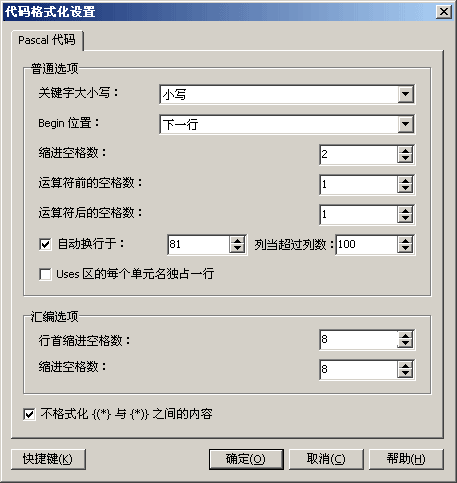
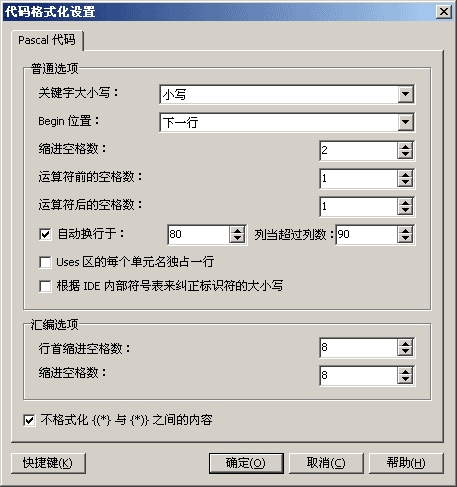
* [Help Files] Update Help Files for Code Formatter.

Changed region(s): [[0.0306, 0.1242, 0.9497, 0.9627], [0.0306, 0.0311, 0.2144, 0.0932]]

diff --git a/Help/CnWizards_ENU/wizards/codeformatter.htm b/Help/CnWizards_ENU/wizards/codeformatter.htm
@@ -36,7 +36,7 @@
 	<li>
 <p class="text"><b>Begin Style</b>: Specify where to Put "begin" when Meeting Structureed Statements like if...then or with...do. Defaultly Put to Next Line. Note: This Option does NOT Affect Procedure or Function Body.(Always use Next Line.)</p></li>
   <li>
-<p class="text"><b>̵Tab Indent</b>: Space Count for Tab Indent. Default is 2.</p></li>
+<p class="text"><b>Tab Indent</b>: Space Count for Tab Indent. Default is 2.</p></li>
 	<li>
 <p class="text"><b>Space Before Operator</b>: Space Count before an Operator. Default is 1.</p></li>
 	<li>
@@ -45,6 +45,8 @@
 <p class="text"><b>Auto Wrap</b>: There are 2 Line Width in Auto Wrap Setting: the Smaller One "Break Line Width" and the Bigger One "Exceeding Width". When a Line Exceeds the "Exceeding Width", it will be Broken to Next Line at "Breake Line Width". This Feature can avoid some Minor Contents at Next Line when the Original Line is a Little Longer than "Exceeding Width".</p></li>
 	<li>
 <p class="text"><b>Single Line Mode for Every Uses Unit</b>: If Checked, Every Unit Name in Uses Area will Occupy One Line, Otherwise Use a Simple auto Wrap Mode with the above Break Line Width.</p></li>
+  <li>
+<p class="text"><b>Use IDE Internal Symbols to Correct Identifiers</b>: If Checked, Code Formatter will Compile Current Unit and Use IDE Internal Symbols to Correct the Identifiers in Source. This Feature Depends on Input Helper.</p></li>
 </ul>
 	<li>
 <p class="text"><b>ASM Settings</b></p></li>
